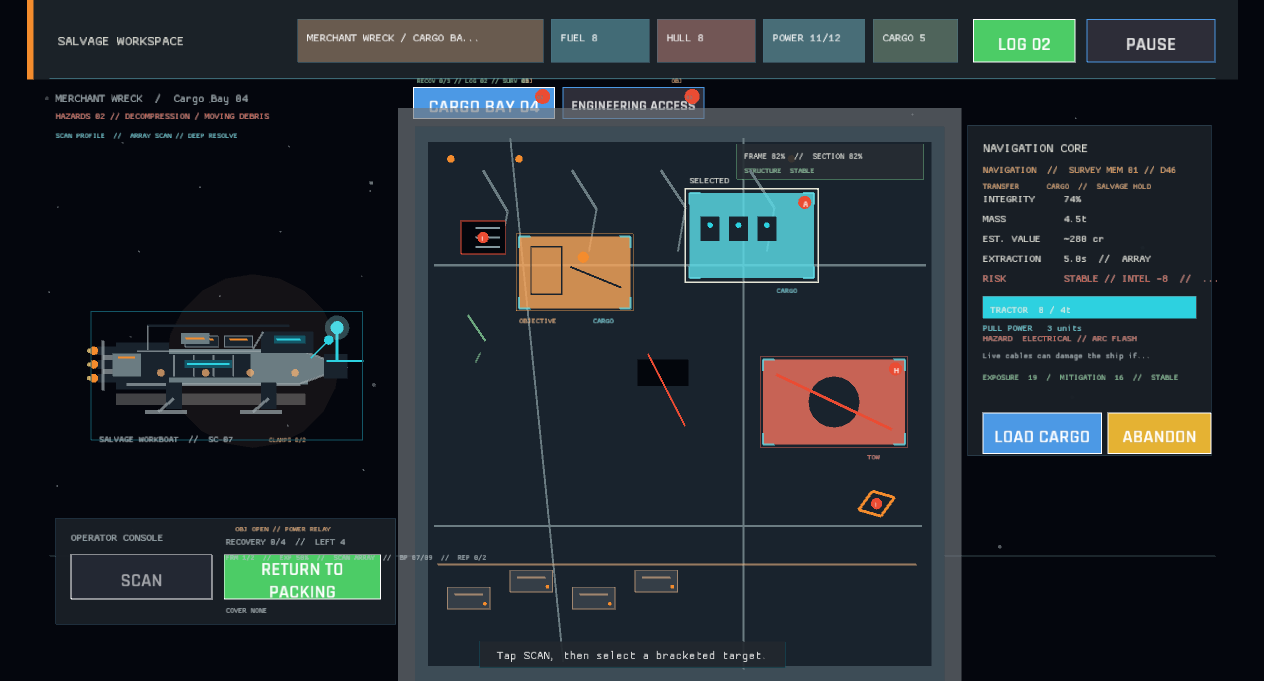
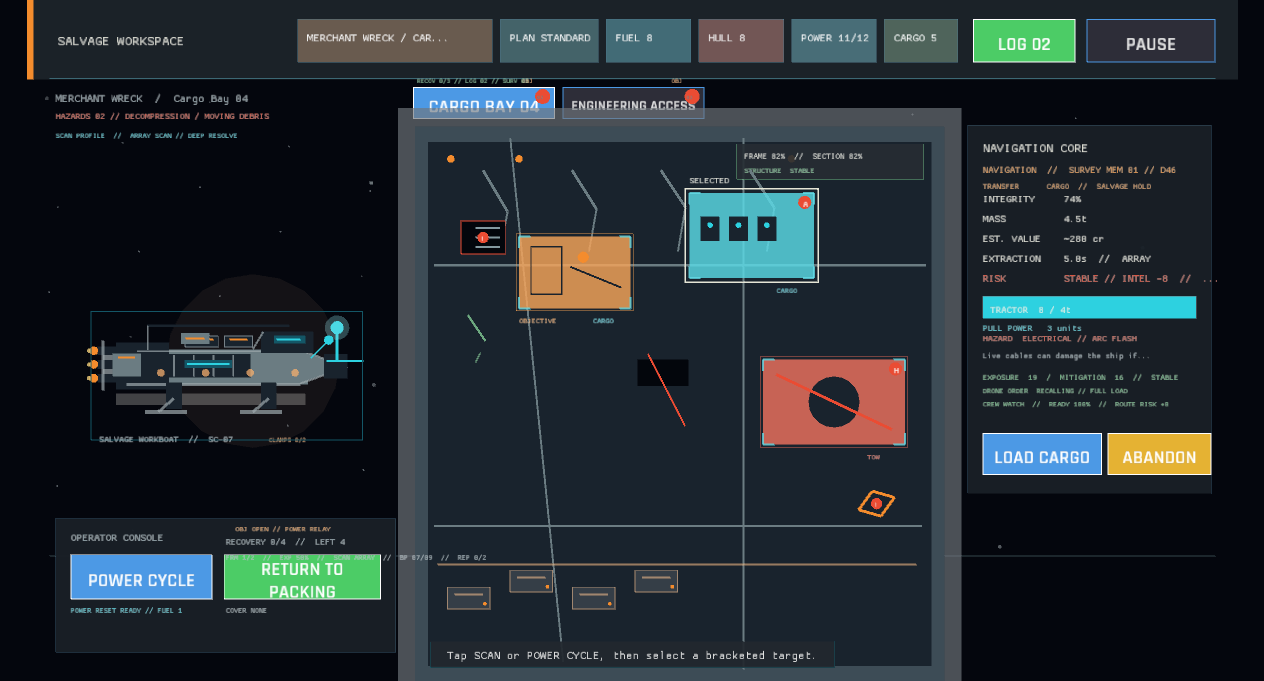
The operator console calls out the crew watch on every pull (crew readiness workspace telemetry)
The selected-target risk panel now reports crew readiness and the fatigue-driven route-risk increment beneath exposure and drone support. The panel grew just enough to keep the visible extraction commands clear, with focused coverage and a refreshed workspace capture.

diff --git a/src/ui/extraction_panel.rs b/src/ui/extraction_panel.rs
@@ -217,6 +217,13 @@ pub fn draw_target_panel(ctx: &UiContext<'_>, layout: SalvageLayout, actions: &m
                 10.0,
                 report_color,
             );
+            draw_text(
+                crew_watch_label(ctx.session),
+                layout.target_panel.x + 16.0,
+                report_y + 28.0,
+                10.0,
+                report_color,
+            );
         }
     }
     if let Some(extraction_target) = ctx.workspace_extraction_target {
@@ -269,7 +276,7 @@ pub fn draw_target_panel(ctx: &UiContext<'_>, layout: SalvageLayout, actions: &m
     }
     let button_y = layout.target_panel.y
         + if ctx.workspace_risk.is_some() {
-            304.0
+            326.0
         } else {
             292.0
         };
@@ -333,6 +340,14 @@ fn drone_risk_label(directive: DroneDirective, drones_active: bool) -> String {
         (_, DroneDirective::Standby) => "DRONE ORDER  STANDBY // FULL LOAD".to_owned(),
         (false, _) => "DRONE ORDER  RECALLING // FULL LOAD".to_owned(),
     }
+}
+
+fn crew_watch_label(session: &GameSession) -> String {
+    format!(
+        "CREW WATCH  //  READY {}%  //  ROUTE RISK {:+}",
+        session.crew_readiness(),
+        session.crew_fatigue_danger_delta()
+    )
 }
 
 fn survey_memory_label(note: Option<&crate::state::TargetSurveyNote>) -> String {

diff --git a/src/ui/extraction_panel/tests.rs b/src/ui/extraction_panel/tests.rs
@@ -102,6 +102,18 @@ fn risk_panel_explains_the_drone_order_tradeoff() {
 }
 
 #[test]
+fn risk_panel_names_the_crew_readiness_pressure() {
+    let data = crate::data::GameData::load().unwrap();
+    let mut session = GameSession::new(&data);
+    session.crew_fatigue = 21;
+
+    assert_eq!(
+        crew_watch_label(&session),
+        "CREW WATCH  //  READY 79%  //  ROUTE RISK +2"
+    );
+}
+
+#[test]
 fn target_risk_line_names_the_reconnaissance_reduction() {
     assert_eq!(workspace_intelligence_suffix(1, 8), " // INTEL -8");
     assert_eq!(workspace_intelligence_suffix(2, 8), " // INTEL -16");

diff --git a/src/ui/scene_layout.rs b/src/ui/scene_layout.rs
@@ -35,7 +35,7 @@ pub fn salvage_layout() -> SalvageLayout {
         ship: Rect::new(72.0, 332.0, 278.0, 144.0),
         wreck: Rect::new(410.0, 134.0, 560.0, 586.0),
         command: Rect::new(30.0, 548.0, 360.0, 142.0),
-        target_panel: Rect::new(994.0, 132.0, 258.0, 350.0),
+        target_panel: Rect::new(994.0, 132.0, 258.0, 390.0),
         power_relay: Rect::new(520.0, 250.0, 118.0, 76.0),
         navigation_core: Rect::new(700.0, 204.0, 132.0, 90.0),
         engine_assembly: Rect::new(778.0, 380.0, 150.0, 90.0),
